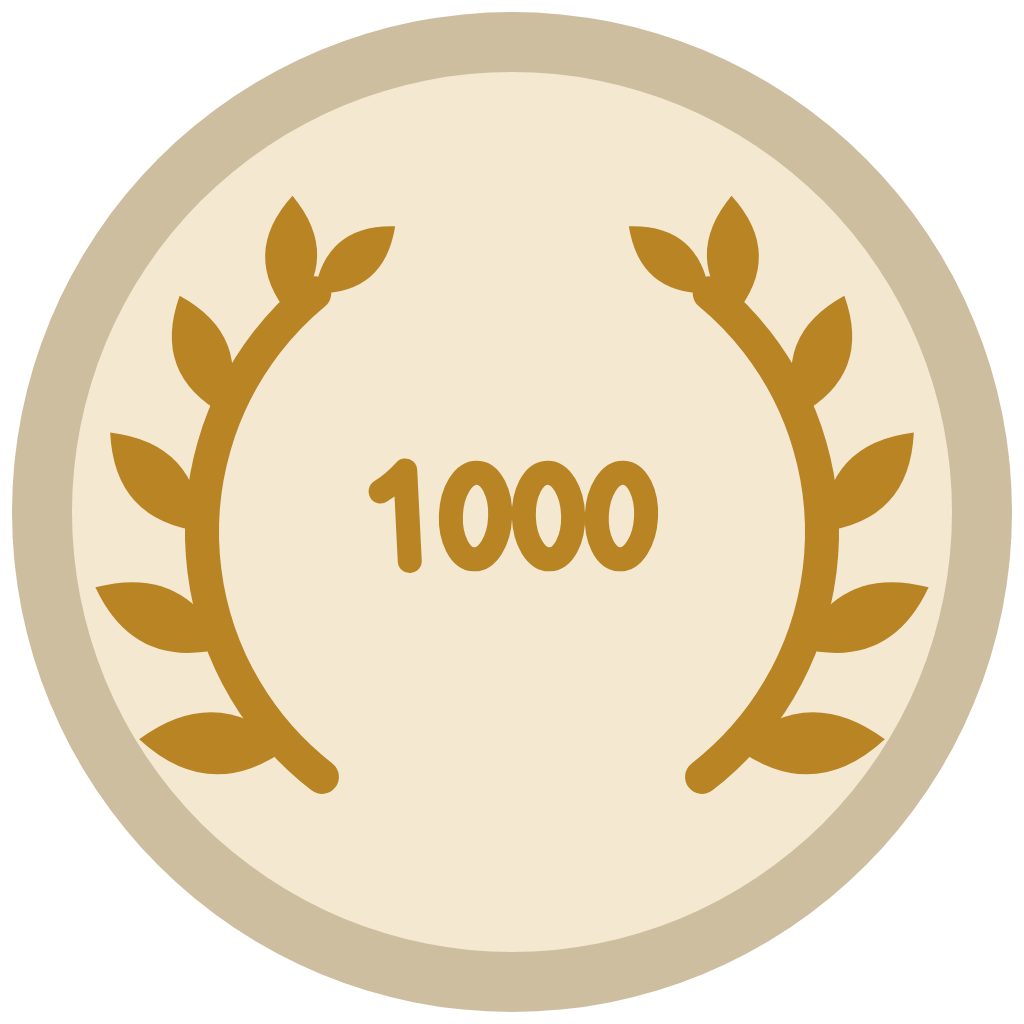
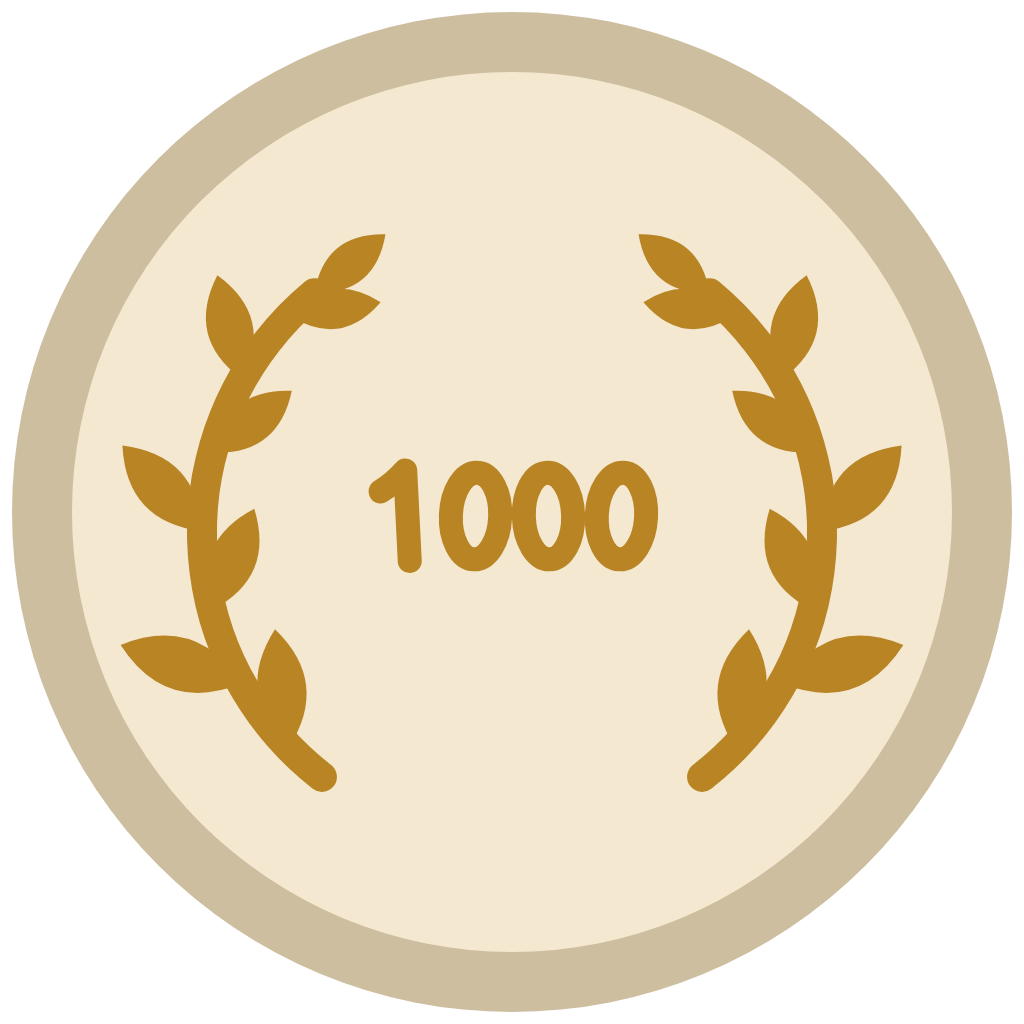
Wins badges: laurel leaves on both sides of the stem

diff --git a/tools/badgeart.html b/tools/badgeart.html
@@ -30,17 +30,28 @@ function leaf(ctx, x, y, ang, len, wid, col) {
   ctx.save(); ctx.translate(x, y); ctx.rotate(ang); ctx.beginPath(); ctx.moveTo(0, 0);
   ctx.quadraticCurveTo(len * .5, -wid, len, 0); ctx.quadraticCurveTo(len * .5, wid, 0, 0); ctx.fillStyle = css(col); ctx.fill(); ctx.restore();
 }
-function wins(ctx, n) {      // a laurel wreath in the tokens' manner: five big leaves a side on a thick stem, the two branches apart at the foot
-  const col = [184, 132, 36], cy = C + 20, rr = R * .62;
-  ctx.lineCap = 'round'; ctx.lineJoin = 'round'; ctx.strokeStyle = css(col); ctx.fillStyle = css(col);
-  for (const sgn of [-1, 1]) {
-    const a0 = Math.PI / 2 - sgn * .66, a1 = Math.PI / 2 - sgn * 2.45;      // the foot of each branch stops well short of the middle
-    ctx.lineWidth = 34; ctx.beginPath(); ctx.arc(C, cy, rr, a0, a1, sgn > 0); ctx.stroke();
-    for (let k = 0; k < 5; k++) { const u = k / 4, a = a0 + (a1 - a0) * (.08 + .86 * u), x = C + Math.cos(a) * rr, y = cy + Math.sin(a) * rr, along = a - sgn * Math.PI / 2;
-      leaf(ctx, x, y, along + sgn * .75, 150 - 30 * u, 62 - 10 * u, col); }
-    const ta = a1, tx = C + Math.cos(ta) * rr, ty = cy + Math.sin(ta) * rr; leaf(ctx, tx, ty, ta - sgn * Math.PI / 2, 105, 46, col);
-  }
-  num(ctx, n, C + 4, 330, col, R * .56);
+const G1 = [184, 132, 36], G2 = [150, 104, 24], CRM = [244, 232, 208], RED = [206, 40, 62], BLU = [60, 130, 230];
+function leaf2(ctx, x, y, ang, len, wid, mode) {      // a leaf; 'two': its lower half a darker gold; 'vein': a cream midrib
+  ctx.save(); ctx.translate(x, y); ctx.rotate(ang);
+  ctx.beginPath(); ctx.moveTo(0, 0); ctx.quadraticCurveTo(len * .5, -wid, len, 0); ctx.quadraticCurveTo(len * .5, wid, 0, 0); ctx.fillStyle = css(G1); ctx.fill();
+  if (mode === 'two') { ctx.beginPath(); ctx.moveTo(0, 0); ctx.lineTo(len, 0); ctx.quadraticCurveTo(len * .5, wid, 0, 0); ctx.fillStyle = css(G2); ctx.fill(); }
+  if (mode === 'vein') { ctx.beginPath(); ctx.moveTo(len * .18, 0); ctx.lineTo(len * .72, 0); ctx.strokeStyle = css(CRM); ctx.lineWidth = wid * .22; ctx.lineCap = 'round'; ctx.stroke(); }
+  ctx.restore();
+}
+function branch(ctx, sgn, o) {      // one side of the wreath on an arc round (C, cy)
+  const { cy, rr, a0s, a1s, k, lw, mode, both, berries } = o, a0 = Math.PI / 2 - sgn * a0s, a1 = Math.PI / 2 - sgn * a1s;
+  ctx.strokeStyle = css(G1); ctx.lineCap = 'round'; ctx.lineWidth = lw; ctx.beginPath(); ctx.arc(C, cy, rr, a0, a1, sgn > 0); ctx.stroke();
+  for (let i = 0; i < k; i++) { const u = i / (k - 1), a = a0 + (a1 - a0) * (.08 + .86 * u), x = C + Math.cos(a) * rr, y = cy + Math.sin(a) * rr, along = a - sgn * Math.PI / 2;
+    const L = (o.L || 150) - 30 * u, Wd = (o.W || 62) - 10 * u;
+    if (both) { if (i % 2) leaf2(ctx, x, y, along + sgn * .75, L, Wd, mode); else leaf2(ctx, x, y, along - sgn * .65, L * .9, Wd * .9, mode); }
+    else leaf2(ctx, x, y, along + sgn * .75, L, Wd, mode);
+    if (berries && i % 2 === 0 && i < k - 1) { const b = a + (a1 - a0) * .1, bx = C + Math.cos(b) * (rr - 46), by = cy + Math.sin(b) * (rr - 46); ctx.beginPath(); ctx.arc(bx, by, 20, 0, TAU); ctx.fillStyle = css(i % 4 ? BLU : RED); ctx.fill(); } }
+  const ta = a1, tx = C + Math.cos(ta) * rr, ty = cy + Math.sin(ta) * rr; leaf2(ctx, tx, ty, ta - sgn * Math.PI / 2, (o.L || 150) * .7, (o.W || 62) * .74, mode);
+}
+function wins(ctx, n) {      // a laurel wreath in the tokens' manner: leaves on both sides of each stem, the two branches apart at the foot
+  const o = { cy: C + 20, rr: R * .62, a0s: .66, a1s: 2.45, k: 7, lw: 30, both: true, L: 132, W: 54 };
+  for (const sgn of [-1, 1]) branch(ctx, sgn, o);
+  num(ctx, n, C + 4, 330, G1, R * .56);
 }
 function streak(ctx, n) {      // a flame in the middle of the token, the number inside it
   const col = [206, 40, 62], fh = 640, fw = 360, cx = C, by = C + fh * .42, ty = C - fh * .58;
